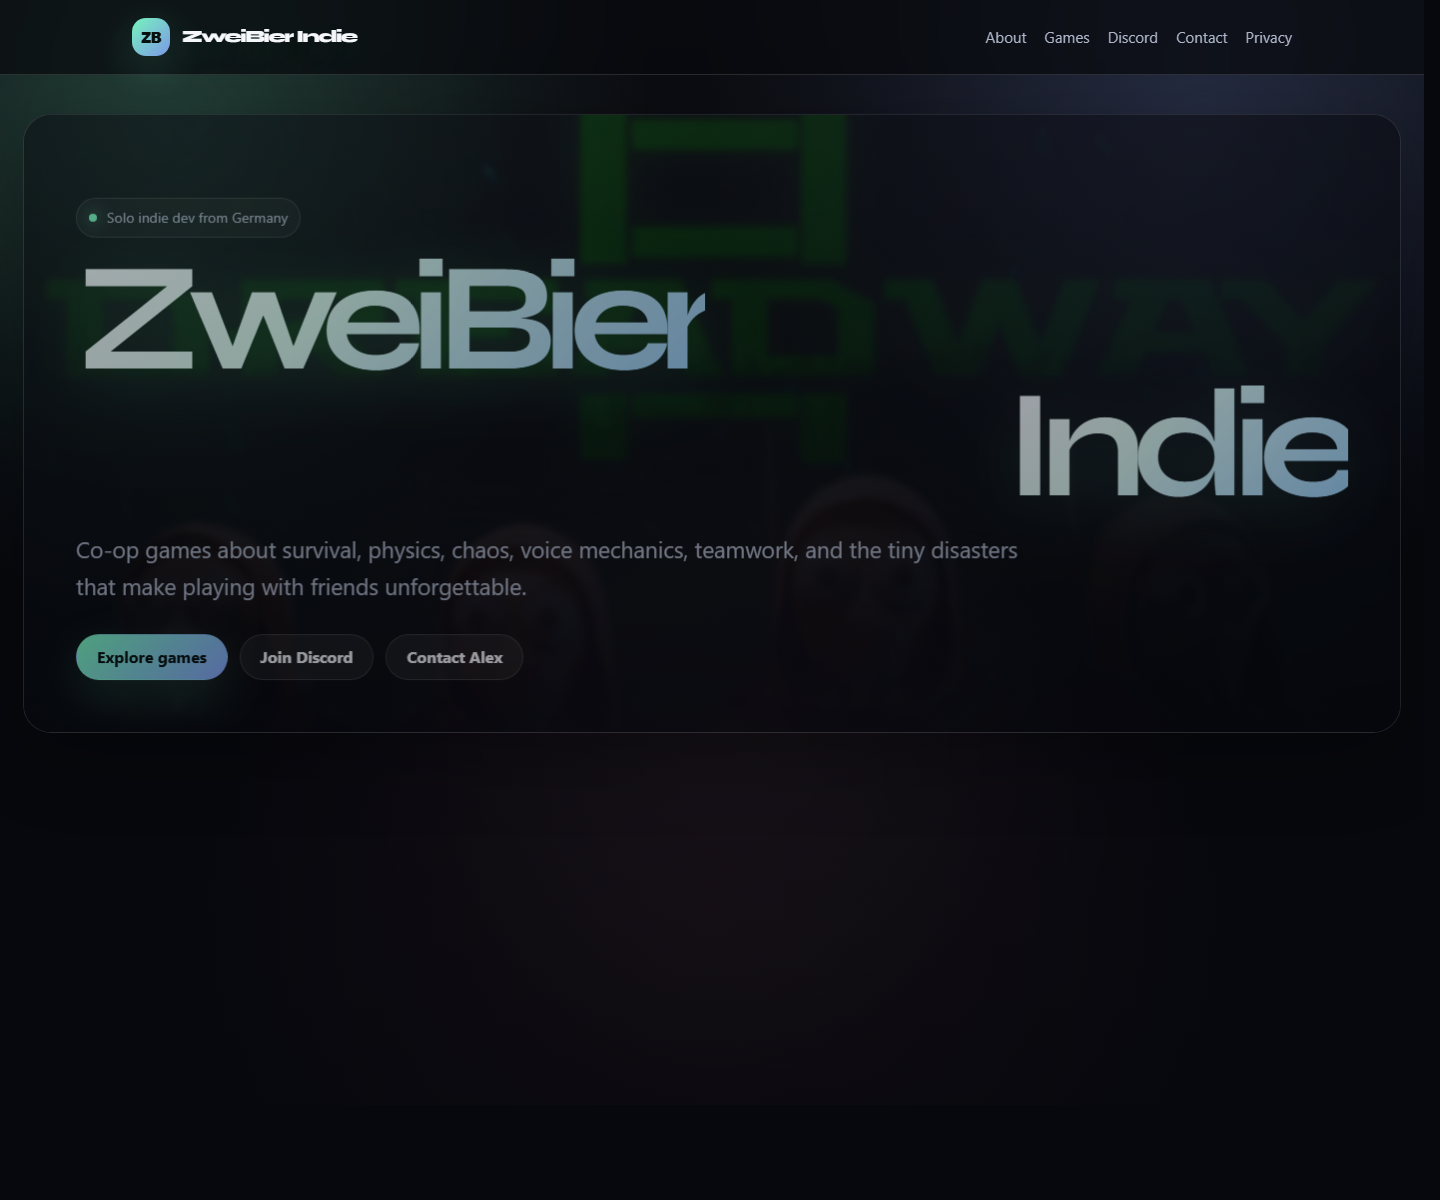
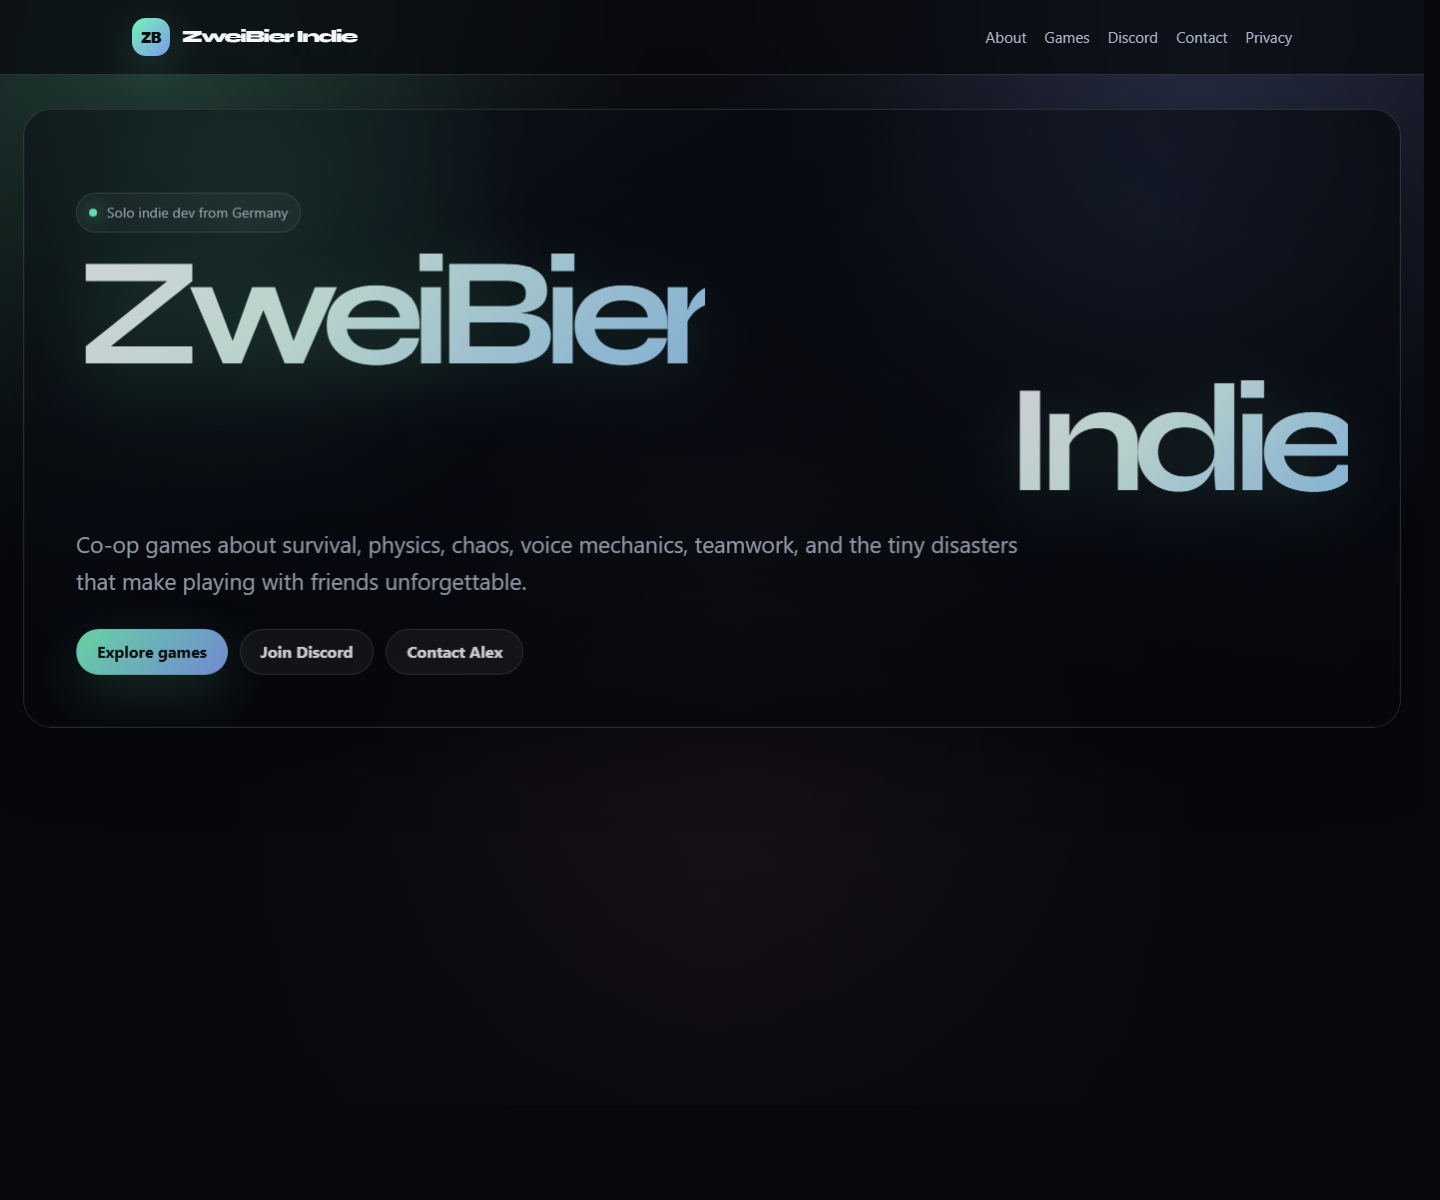
Refine hero styles, add mobile assets, tweak docs
Replace the hero artwork image with a layered gradient "atmospheric haze" backdrop and remove the blur/scale so the hero is neutral and fully CSS-driven. Improve responsive hero layout and typography (wordmark sizing, tagline limits, stacked single-column CTAs, small-screen tweaks) and adjust .hero-card padding/min-height for mobile. Add multiple .codex-mobile-*.png preview images and update two hero-check images. Remove the hardcoded Discord CTA link from index.html and update docs (Docs/hero-branding.md and Docs/discord-community.md) to reflect the new gradient-based hero and the revised guidance for updating the Discord CTA link.

diff --git a/index.html b/index.html
@@ -717,14 +717,15 @@
       inset: 0;
       z-index: -1;
       background:
-        radial-gradient(circle at 14% 18%, rgba(124, 255, 196, 0.18), transparent 20rem),
-        radial-gradient(circle at 82% 18%, rgba(138, 168, 255, 0.18), transparent 22rem),
-        linear-gradient(135deg, rgba(124, 255, 196, 0.16), transparent 38%),
-        linear-gradient(315deg, rgba(138, 168, 255, 0.22), transparent 36%),
-        url("https://shared.fastly.steamstatic.com/store_item_assets/steam/apps/3215820/236fb92091e8ccef2e5c93fec52c25d643a7aa84/header.jpg?t=1769872973") center 42% / cover no-repeat;
-      filter: blur(3px) saturate(0.92) contrast(1.04) brightness(0.58);
-      transform: scale(1.08);
-      opacity: 0.52;
+        radial-gradient(circle at 16% 20%, rgba(124, 255, 196, 0.24), transparent 18rem),
+        radial-gradient(circle at 82% 18%, rgba(138, 168, 255, 0.22), transparent 21rem),
+        radial-gradient(circle at 54% 78%, rgba(255, 255, 255, 0.07), transparent 20rem),
+        linear-gradient(140deg, rgba(124, 255, 196, 0.1), transparent 34%),
+        linear-gradient(320deg, rgba(138, 168, 255, 0.12), transparent 36%),
+        linear-gradient(180deg, rgba(10, 15, 24, 0.96), rgba(8, 11, 18, 0.82));
+      filter: blur(0);
+      transform: scale(1);
+      opacity: 1;
     }
 
     .hero-card::after {
@@ -1385,17 +1386,49 @@
         padding: 62px 0;
       }
 
+      h2 {
+        font-size: clamp(1.9rem, 10vw, 2.8rem);
+        line-height: 1.02;
+        letter-spacing: -0.05em;
+      }
+
       .hero-card {
-        min-height: 480px;
-        padding: 24px;
+        min-height: auto;
+        padding: 26px 24px 28px;
       }
 
       .hero-wordmark {
         gap: 0;
+        margin-bottom: 18px;
+        font-size: clamp(3.15rem, 15vw, 4.7rem);
+        line-height: 0.86;
+        letter-spacing: -0.082em;
+      }
+
+      .hero-wordmark span {
+        width: 100%;
+        max-width: 100%;
       }
 
       .hero-wordmark span:last-child {
         justify-self: start;
+      }
+
+      .hero-tagline {
+        max-width: 18ch;
+        font-size: 1rem;
+        line-height: 1.58;
+      }
+
+      .hero-actions {
+        display: grid;
+        grid-template-columns: 1fr;
+        width: 100%;
+      }
+
+      .hero-actions .btn {
+        width: 100%;
+        min-width: 0;
       }
 
       .stat-grid {
@@ -1440,6 +1473,17 @@
       .discord-stat-grid {
         grid-template-columns: 1fr;
       }
+    }
+
+    @media (max-width: 420px) {
+      .hero-wordmark {
+        font-size: clamp(2.95rem, 14vw, 4.2rem);
+      }
+
+      .hero-tagline {
+        max-width: 16ch;
+      }
+
     }
   </style>
 </head>
@@ -1586,7 +1630,6 @@
             <div class="section-kicker">Discord</div>
             <h2>Join the studio community.</h2>
           </div>
-          <a class="btn" href="https://discord.gg/sredy7UU63" target="_blank" rel="noopener noreferrer">Open Discord invite</a>
         </div>
 
         <div class="discord-grid">

diff --git a/Docs/hero-branding.md b/Docs/hero-branding.md
@@ -8,7 +8,7 @@ The homepage hero in `index.html` is a single full-width branded stage instead o
 
 - `index.html` loads the `Syne` display font from Google Fonts for brand wordmarks.
 - `.hero-shell` widens the hero beyond the default site container so the wordmark can breathe.
-- `.hero-card` now acts as the full hero stage with the featured artwork as a shared backdrop.
+- `.hero-card` now acts as the full hero stage with a neutral atmospheric haze backdrop built from layered gradients.
 - `.hero-wordmark` uses two spans (`ZweiBier` and `Indie`) so the second line can align to the opposite side on wider screens.
 - `.brand-wordmark` applies the same display font to the sticky header brand so the logo treatment stays consistent.
 
@@ -16,10 +16,11 @@ The homepage hero in `index.html` is a single full-width branded stage instead o
 
 - On desktop, `ZweiBier` starts on the left and `Indie` aligns to the right edge of the wordmark block.
 - On small screens, the second line snaps back to the left so the logo stays readable and does not feel forced.
+- On small screens, the wordmark spans switch to full-width lines and the hero actions stack into a single-column CTA layout for readability.
 - The old `Made by Alex` floating hero card is intentionally removed from the hero stage.
 
 ## Updating It
 
 - Keep the two-span structure inside `.hero-wordmark` if you want to preserve the stretched logo composition.
-- If the hero artwork changes, update the background image in `.hero-card::before`.
+- If the hero mood needs to change, update the gradient stack in `.hero-card::before` instead of dropping in game art behind the logo.
 - If the brand font changes, update both the `<link>` tag in `<head>` and the `.brand-wordmark` / `.hero-wordmark` selectors together.

diff --git a/Docs/discord-community.md b/Docs/discord-community.md
@@ -17,5 +17,5 @@ The homepage Discord section is a consent-gated community card that links visito
 ## Update Checklist
 
 - If the invite changes, update the `data-discord-invite` attribute on `#discord`.
-- Update all `discord.gg/...` links in the Discord section CTA buttons.
+- Update the `discord.gg/...` link in the Discord section CTA button.
 - If the server icon changes and you want the default preview image to match before the live request finishes, update `data-icon-url` on `#discord-icon`.
